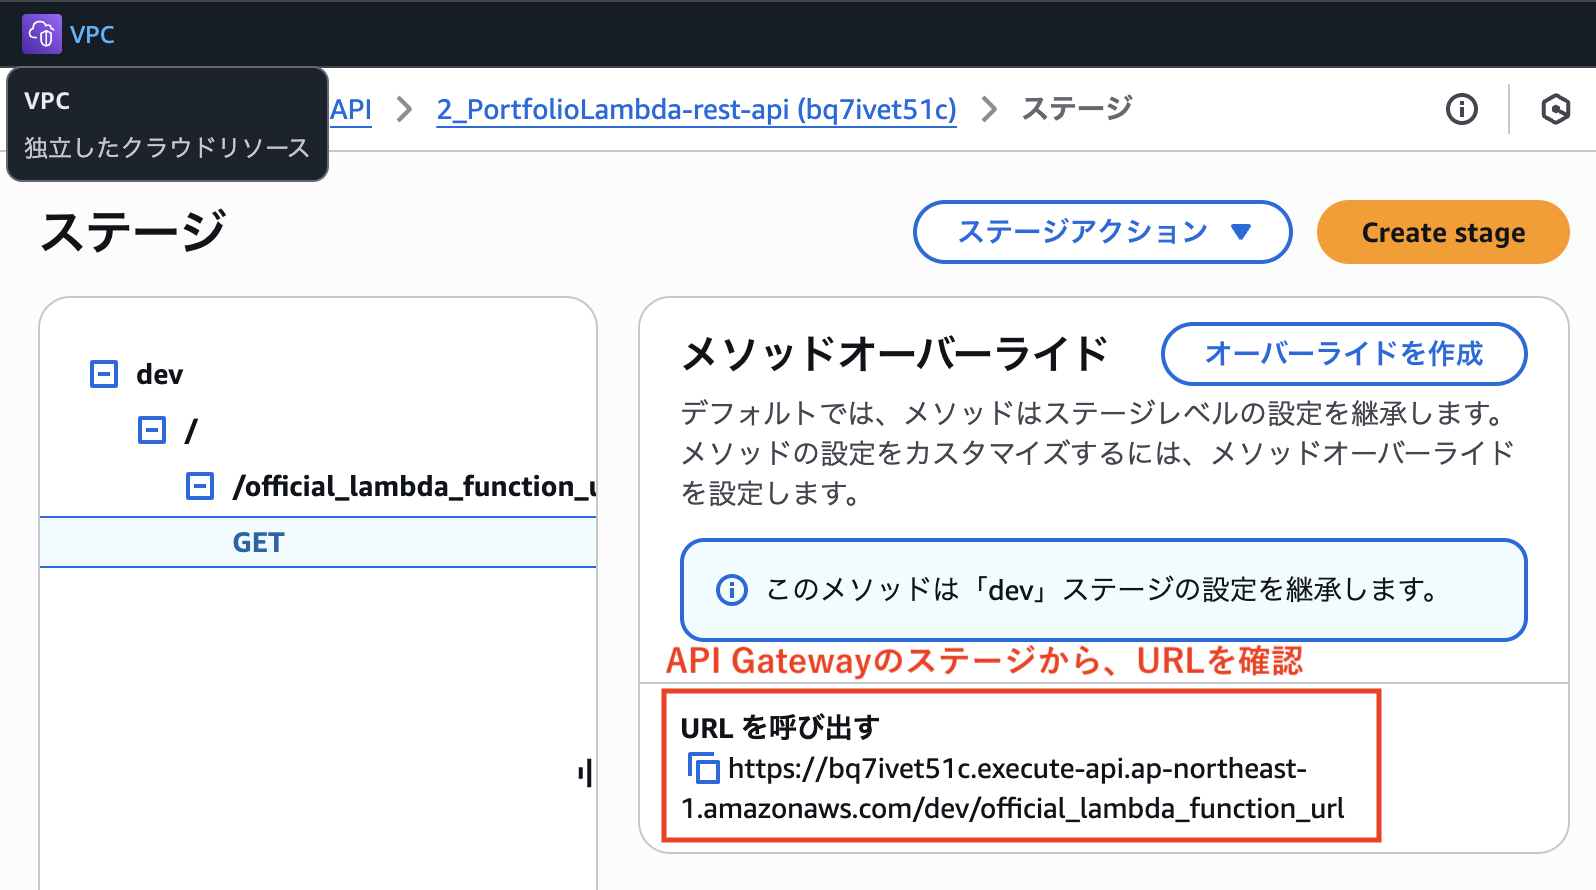
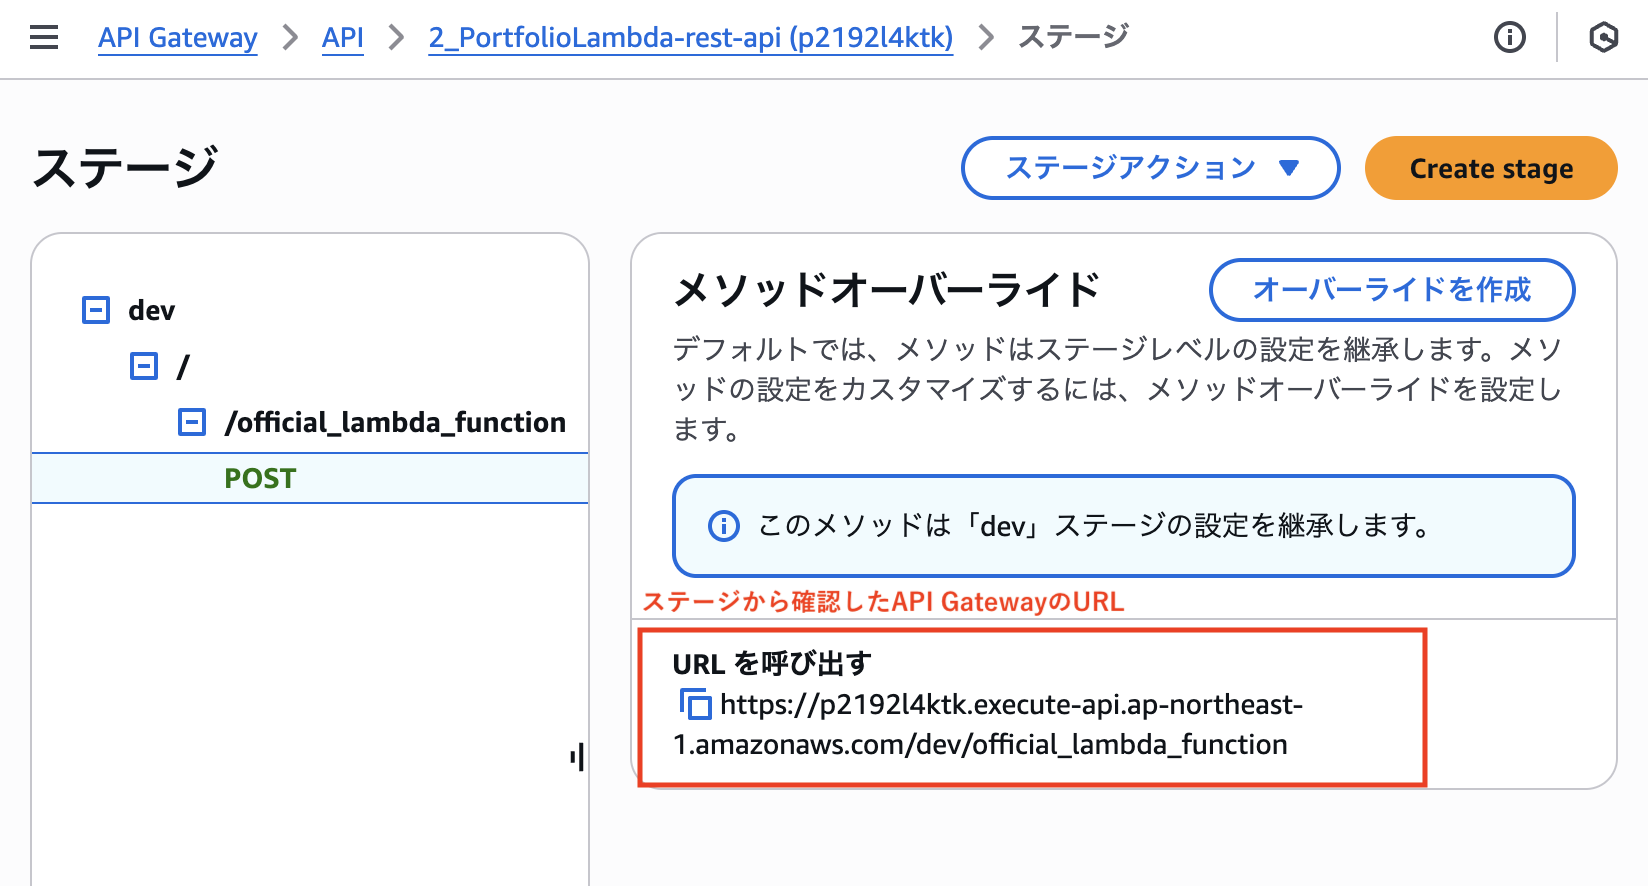
CloudFormation1.mdと~2.mdの修正、画像追加

diff --git a/CloudFormation1.md b/CloudFormation1.md
@@ -4,21 +4,21 @@
 
 * API Gateway（REST API）,Lambda,DynamoDBの連携した環境を、CircleCI,CloudFormationを使って自動構築する。本環境を構築することが目的であり、Lambda関数はAWS公式チュートリアル（https://docs.aws.amazon.com/ja_jp/lambda/latest/dg/services-apigateway-tutorial.html）のものを利用した。  
 &emsp;同Lambda関数は、curlコマンドを利用して、DynamoDB テーブルの作成、読み取り、更新、および削除 (CRUD) 操作を実行します。なお同Lambda関数はS3に保管されているものとする。  
-![0.1_構成図](images2/0.1_構成図.png)  
+![0.1_構成図](images1/0.1_構成図.png)  
 
 
 ## 1. CircleCIに環境変数を設定  
 &emsp;CircleCI上で、環境変数「AWS_ACCESS_KEY_ID」「AWS_DEFAULT_REGION」「AWS_SECRET_ACCESS_KEY」を設定した。
-![1.1_environment](images2/1.1_environment.png)  
+![1.1_environment](images1/1.1_environment.png)  
 
 
 ## 2. Cloudformationの実施結果  
 &emsp;CircleCI上で、Cloudformationのテンプレートを自動実行し、「API Gateway」、「Lambda」、「DynamoDB」を作成した。
-![2.1_cloudformation1](images2/2.1_cloudformation1.png)  
+![2.1_cloudformation1](images1/2.1_cloudformation1.png)  
 
-![2.2_cloudformation2](images2/2.2_cloudformation2.png)  
+![2.2_cloudformation2](images1/2.2_cloudformation2.png)  
 
-![2.3_cloudformation3](images2/2.3_cloudformation3.png)
+![2.3_cloudformation3](images1/2.3_cloudformation3.png)
 
 template  
  - [**resources.yml**](/CloudFormation/CloudFormation1/resources.yml)  
@@ -28,24 +28,24 @@ template
 ## 3.Lambdaの関数（python）をS3に保管  
 &emsp;Lambdaは、既に作成してあるS3から関数を定義したファイルを参照するよう設定。
 &emsp;関数は、CURLコマンドで、DynamoDB テーブルの作成(create)、読み取り(read)、更新()、および削除(delete) のCRUD操作を実行できる。
-![3.1_s3](images2/3.1_s3.png)  
+![3.1_s3](images1/3.1_s3.png)  
 
 template  
  - [**official_lambda_function.py**](/LambdaFunction/python/official_lambda_function.py)
 
 
 ## 4.実施結果  
-&emsp;クライアント端末から、CURLコマンドでPOST（作成）を実行して、DynamoDBにid(キー)とnumberを入力する。
-![4.1_result1](images2/4.1_result1.png)  
+&emsp;API GatewayのURLの確認と、CURLコマンドでPOST（作成）を実行して、DynamoDBのステージにid(キー)とnumberを入力する。
+![4.1_result1](images1/4.1_result1.png)  
 
-![4.2_result2](images2/4.2_result2.png)   
+![4.2_result2](images1/4.2_result2.png)   
+
+![4.3_result3](images1/4.3_result3.png)
 
 &emsp;DynamoDBテーブルにidを登録した後、CURLコマンドでGET（読み取り）を実行し、DynamoDBのid（キー）を指定。
 &emsp;結果として、numberの値が変えることを確認。  
 
-![4.3_result3](images2/4.3_result3.png)  
-
-![4.4_result4](images2/4.4_result4.png)  
+![4.4_result4](images1/4.4_result4.png)  
 
 
 ## 5. 考察、その他参考

diff --git a/CloudFormation2.md b/CloudFormation2.md
@@ -3,21 +3,21 @@
 ## 概要
 
 * API Gateway（REST API）,Lambda,DynamoDBの連携した環境を、CircleCI,CloudFormationを使って自動構築する。本環境を構築することが目的であり、Lambda関数は簡易なものとし、ブラウザーのURL入力から、DynamoDBのテーブルの値を入手する処理を実行する。なお同Lambda関数はS3に保管されているものとする。  
-![0.1_構成図](images1/0.1_構成図.png)  
+![0.1_構成図](images2/0.1_構成図.png)  
 
 
 ## 1. CircleCIに環境変数を設定  
 &emsp;CircleCI上で、環境変数「AWS_ACCESS_KEY_ID」「AWS_DEFAULT_REGION」「AWS_SECRET_ACCESS_KEY」を設定した。
-![1.1_environment](images1/1.1_environment.png)  
+![1.1_environment](images2/1.1_environment.png)  
 
 
 ## 2. Cloudformationの実施結果  
 &emsp;CircleCI上で、Cloudformationのテンプレートを自動実行し、「API GAteway」、「Lambda」、「DynamoDB」を作成した。
-![2.1_cloudformation1](images1/2.1_cloudformation1.png)  
+![2.1_cloudformation1](images2/2.1_cloudformation1.png)  
 
-![2.2_cloudformation2](images1/2.2_cloudformation2.png)  
+![2.2_cloudformation2](images2/2.2_cloudformation2.png)  
 
-![2.3_cloudformation3](images1/2.3_cloudformation3.png)
+![2.3_cloudformation3](images2/2.3_cloudformation3.png)
 
 template  
  - [**resources.yml**](/CloudFormation/CloudFormation2/resources.yml)  
@@ -27,7 +27,7 @@ template
 ## 3.Lambdaの関数（python）をS3に保管  
 &emsp;Lambdaは、既に作成してあるS3から関数を定義したファイルを参照するよう設定。
 &emsp;関数は、URLのGETメソッドで動作し、URLに入力されたidをDynamoDBから探しだし、表示する。なければ、「Item not found」を表示させる。
-![3.1_s3](images1/3.1_s3.png)  
+![3.1_s3](images2/3.1_s3.png)  
 
 template  
  - [**official_lambda_function_url.py**](/LambdaFunction/python/official_lambda_function_url.py)
@@ -36,16 +36,16 @@ template
 ## 4.実施結果  
 &emsp;ブラウザからURLで、 DynamoDBのidを検索する。
 &emsp;一度目はidをDynamoDBに登録していないので、「Item not found」と結果が返る。
-![4.1_result1](images1/4.1_result1.png)  
+![4.1_result1](images2/4.1_result1.png)  
 
-![4.2_result2](images1/4.2_result2.png)   
+![4.2_result2](images2/4.2_result2.png)   
 
 &emsp;DynamoDBテーブルにidを登録した後、ブラウザからURLで、 DynamoDBのidを検索する。
 &emsp;検索したidと、これに紐づく値が結果として返る。  
 
-![4.3_result3](images1/4.3_result3.png)  
+![4.3_result3](images2/4.3_result3.png)  
 
-![4.4_result4](images1/4.4_result4.png)  
+![4.4_result4](images2/4.4_result4.png)  
 
 
 ## 5. 考察、その他参考
